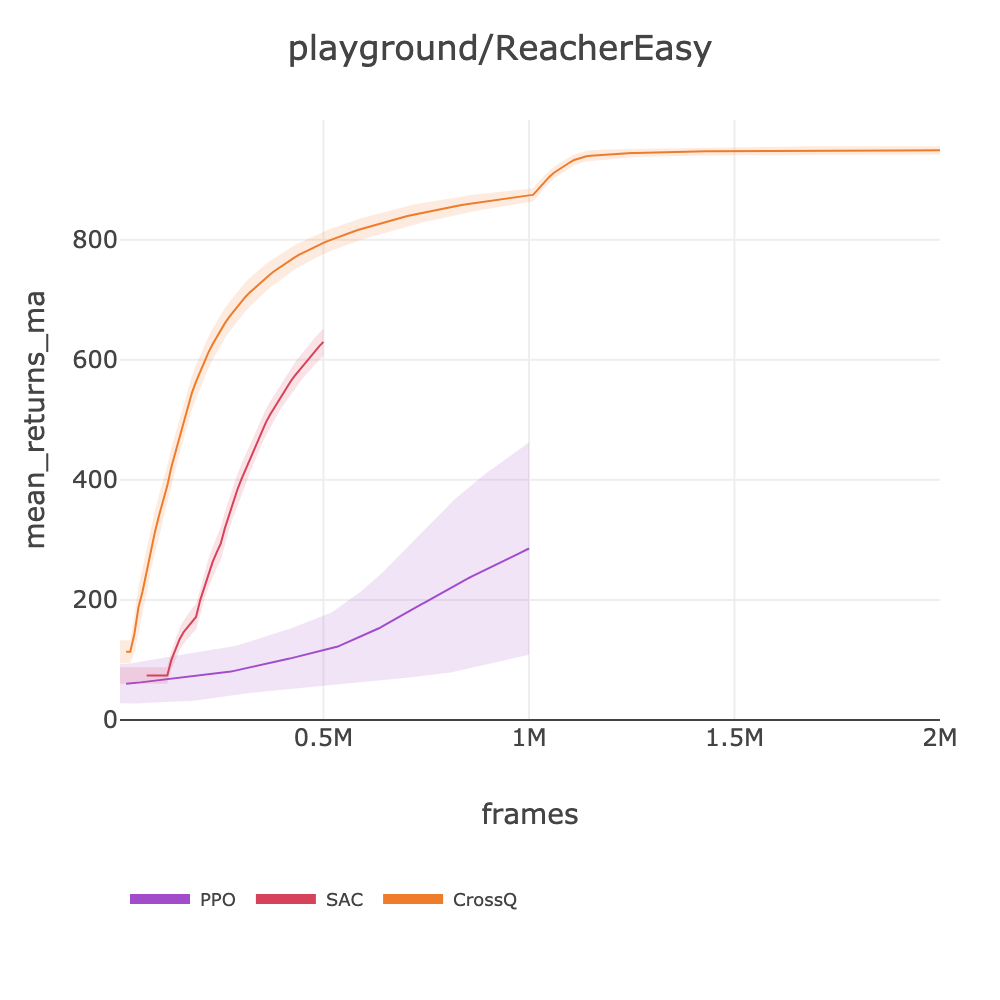
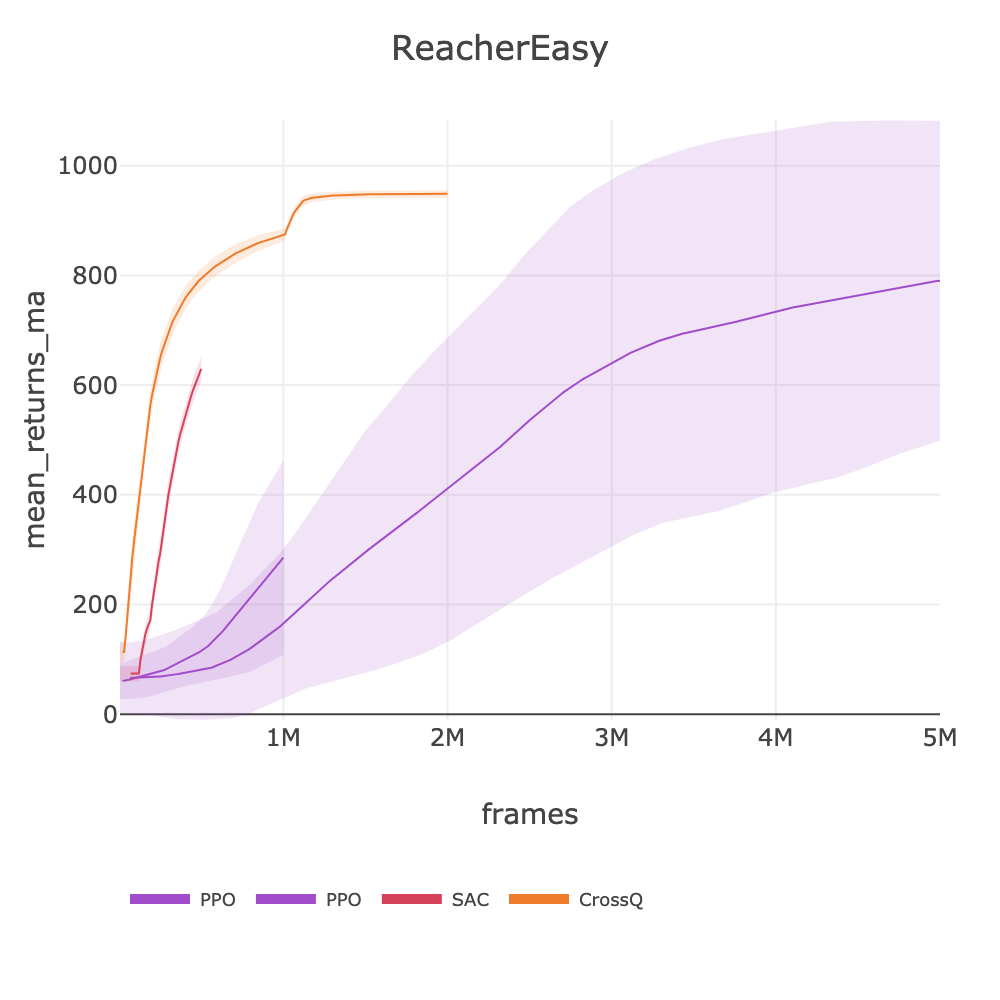
feat: intake PPO ReacherEasy=790.13, CrossQ HumanoidStand=13.05

diff --git a/docs/BENCHMARKS.md b/docs/BENCHMARKS.md
@@ -872,7 +872,7 @@ source .env && uv run slm-lab run-remote --gpu --playground \
 | | SAC | ❌ | 7.90 | sac_playground_arc_fast | [sac_playground_arc_fast_humanoidrun_2026_03_07_001036](https://huggingface.co/datasets/SLM-Lab/benchmark-dev/tree/main/data/sac_playground_arc_fast_humanoidrun_2026_03_07_001036) | | ~335 | 4M | ~3.3h |
 | playground/HumanoidStand | PPO | ❌ | 11.89 | ppo_playground_arc | [ppo_playground_arc_humanoidstand_2026_03_07_133528](https://huggingface.co/datasets/SLM-Lab/benchmark-dev/tree/main/data/ppo_playground_arc_humanoidstand_2026_03_07_133528) | ~514 | ~300 | 4M | ~3.7h |
 | | PPO | ❌ | 16.07 | ppo_playground_arc | [ppo_playground_arc_loco_humanoidstand_2026_03_07_222019](https://huggingface.co/datasets/SLM-Lab/benchmark-dev/tree/main/data/ppo_playground_arc_loco_humanoidstand_2026_03_07_222019) | | ~290 | 4M | ~3.8h |
-| | CrossQ | ❌ | 9.99 | crossq_playground_arc_vhard | [crossq_playground_arc_vhard_humanoidstand_2026_03_07_210445](https://huggingface.co/datasets/SLM-Lab/benchmark-dev/tree/main/data/crossq_playground_arc_vhard_humanoidstand_2026_03_07_210445) | | ~170 | 1M | ~1.6h |
+| | CrossQ | ❌ | 13.05 | crossq_playground_arc_vhard | [crossq_playground_arc_vhard_humanoidstand_2026_03_10_095248](https://huggingface.co/datasets/SLM-Lab/benchmark-dev/tree/main/data/crossq_playground_arc_vhard_humanoidstand_2026_03_10_095248) | | ~183 | 3M | ~4.6h |
 | | SAC | ❌ | 26.44 | sac_playground_arc_fast | [sac_playground_arc_fast_humanoidstand_2026_03_07_000958](https://huggingface.co/datasets/SLM-Lab/benchmark-dev/tree/main/data/sac_playground_arc_fast_humanoidstand_2026_03_07_000958) | | ~329 | 2M | ~1.7h |
 | playground/HumanoidWalk | PPO | ❌ | 5.50 | ppo_playground_arc | [ppo_playground_arc_humanoidwalk_2026_03_07_133505](https://huggingface.co/datasets/SLM-Lab/benchmark-dev/tree/main/data/ppo_playground_arc_humanoidwalk_2026_03_07_133505) | ~281 | ~300 | 4M | ~3.7h |
 | | PPO | ❌ | 7.71 | ppo_playground_arc | [ppo_playground_arc_loco_humanoidwalk_2026_03_07_224025](https://huggingface.co/datasets/SLM-Lab/benchmark-dev/tree/main/data/ppo_playground_arc_loco_humanoidwalk_2026_03_07_224025) | | ~295 | 4M | ~3.8h |
@@ -884,7 +884,7 @@ source .env && uv run slm-lab run-remote --gpu --playground \
 | playground/PointMass | PPO | ❌ | 752.49 | ppo_playground_arc | [ppo_playground_arc_pointmass_2026_03_09_180951](https://huggingface.co/datasets/SLM-Lab/benchmark-dev/tree/main/data/ppo_playground_arc_pointmass_2026_03_09_180951) | ~988 | ~315 | 2M | ~1.8h |
 | | SAC | ❌ | 2.07 | sac_playground_arc_fast | [sac_playground_arc_fast_pointmass_2026_03_08_201255](https://huggingface.co/datasets/SLM-Lab/benchmark-dev/tree/main/data/sac_playground_arc_fast_pointmass_2026_03_08_201255) | | ~350 | 500K | ~0.4h |
 | | CrossQ | ❌ | 123.33 | crossq_playground_arc | [crossq_playground_arc_easy_pointmass_2026_03_08_201307](https://huggingface.co/datasets/SLM-Lab/benchmark-dev/tree/main/data/crossq_playground_arc_easy_pointmass_2026_03_08_201307) | | ~800 | 500K | ~0.2h |
-| playground/ReacherEasy | PPO | ❌ | 285.63 | ppo_playground_arc | [ppo_playground_arc_reachereasy_2026_03_06_102444](https://huggingface.co/datasets/SLM-Lab/benchmark-dev/tree/main/data/ppo_playground_arc_reachereasy_2026_03_06_102444) | ~945 | ~2000 | 500K | ~0.1h |
+| playground/ReacherEasy | PPO | ⚠ | 790.13 | ppo_playground_arc | [ppo_playground_arc_reachereasy_2026_03_10_094932](https://huggingface.co/datasets/SLM-Lab/benchmark-dev/tree/main/data/ppo_playground_arc_reachereasy_2026_03_10_094932) | ~945 | ~307 | 5M | ~4.5h |
 | | SAC | ❌ | 629.75 | sac_playground_arc_fast | [sac_playground_arc_fast_reachereasy_2026_03_08_201312](https://huggingface.co/datasets/SLM-Lab/benchmark-dev/tree/main/data/sac_playground_arc_fast_reachereasy_2026_03_08_201312) | | ~380 | 500K | ~0.4h |
 | | CrossQ | ✅ | 948.75 | crossq_playground_arc | [crossq_playground_arc_easy_reachereasy_2026_03_07_225416](https://huggingface.co/datasets/SLM-Lab/benchmark-dev/tree/main/data/crossq_playground_arc_easy_reachereasy_2026_03_07_225416) | | ~695 | 2M | ~0.8h |
 | playground/ReacherHard | PPO | ✅ | 259.40 | ppo_playground_arc | [ppo_playground_arc_reacherhard_2026_03_07_124346](https://huggingface.co/datasets/SLM-Lab/benchmark-dev/tree/main/data/ppo_playground_arc_reacherhard_2026_03_07_124346) | ~225 | ~300 | 4M | ~3.7h |
